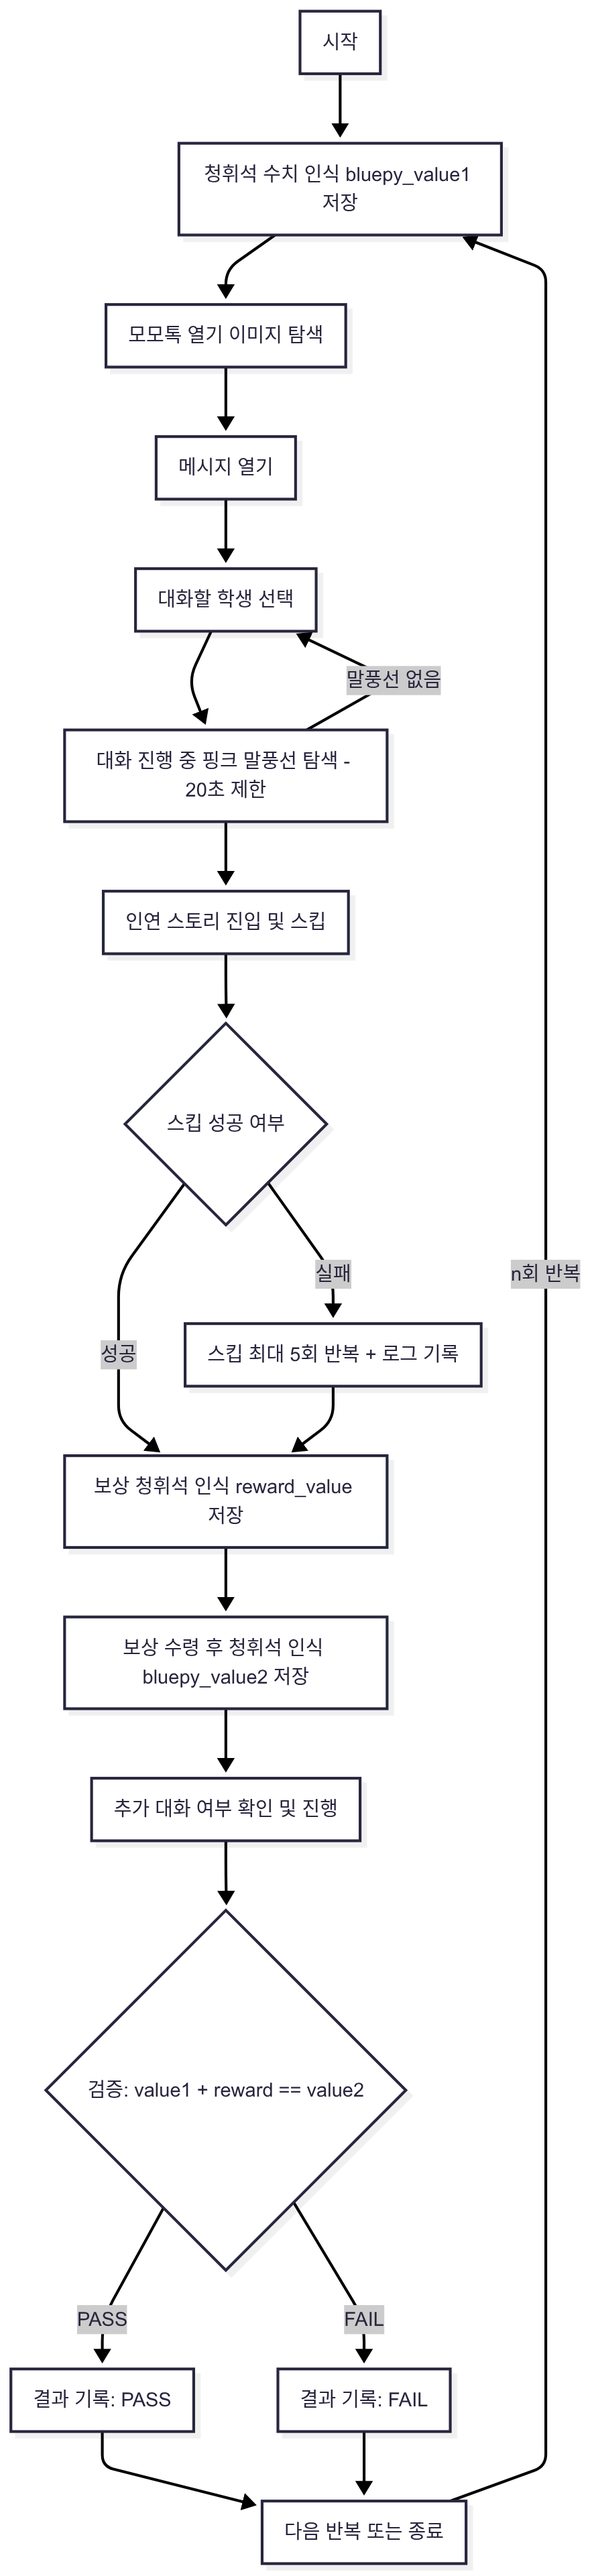
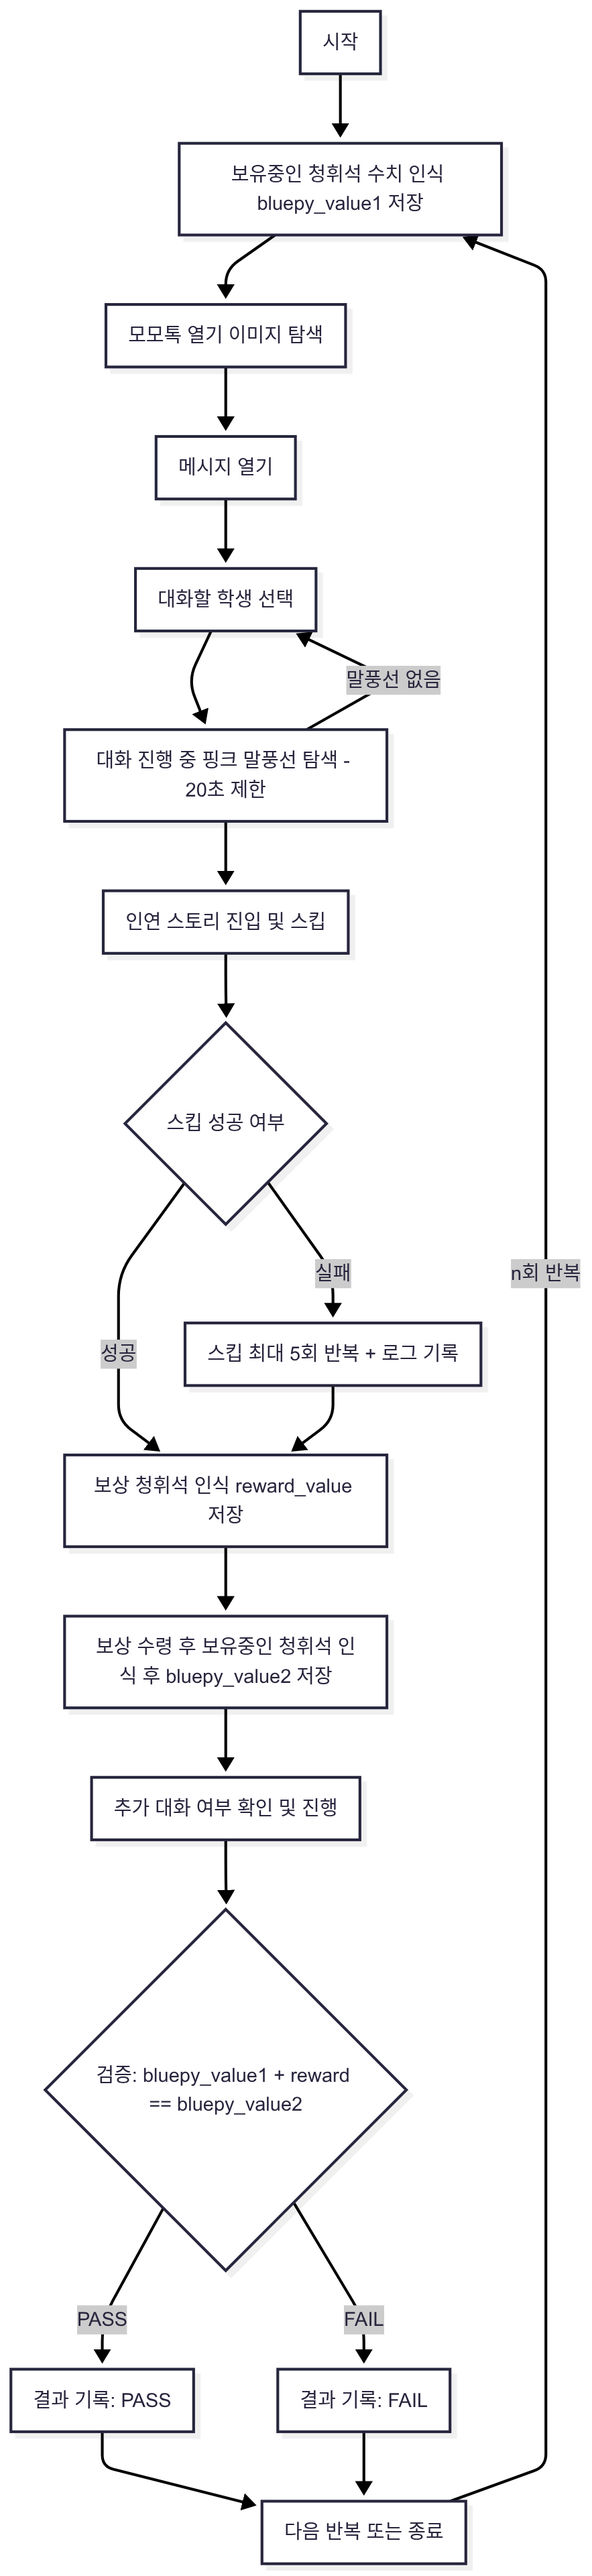
흐름도 내용 수정, readme수정

diff --git a/README.md b/README.md
@@ -4,7 +4,7 @@
 블루 아카이브의 스팀(PC) 버전에서, 모모톡 대화를 통해 청휘석 보상을 자동으로 수령하고, OCR을 통해 기존 청휘석 보유량, 보상 청휘석, 현재 청휘석 보유량을 추출하고 정상 증가했는지 검증하는 Python 기반의 자동화 테스트입니다.
 
 ---
-### 📌 자동화 시나리오 흐름도
+### 📌 테스트 시나리오 흐름도
 
 ![보상 시나리오 흐름도](./flowchart/reward_test_flowchart.png)
 
